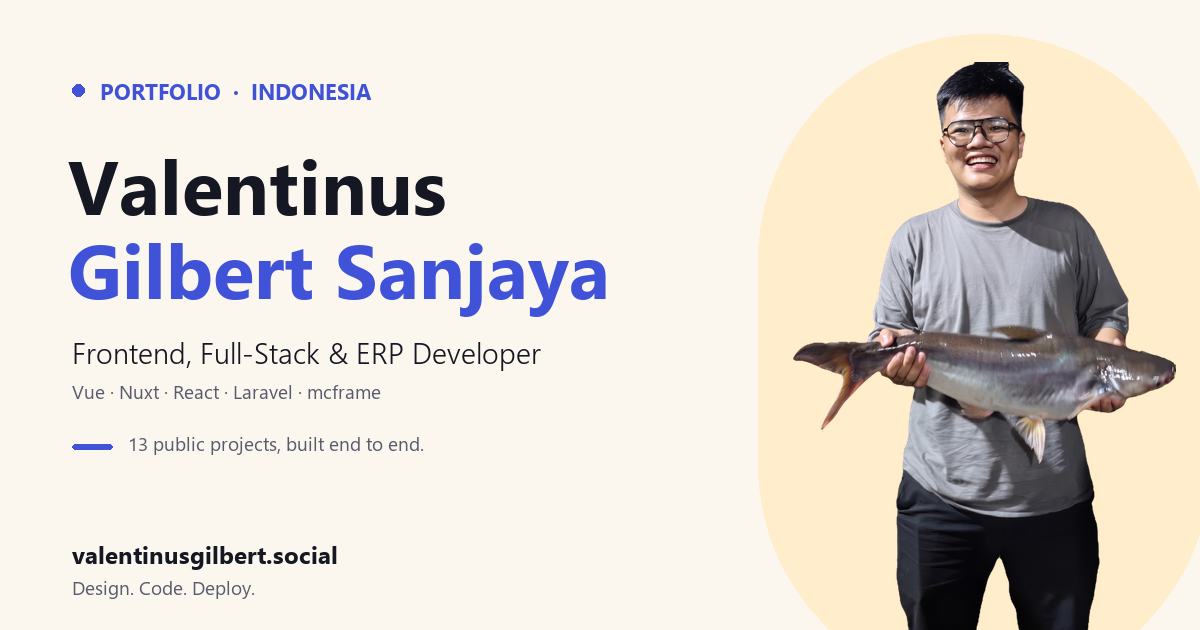
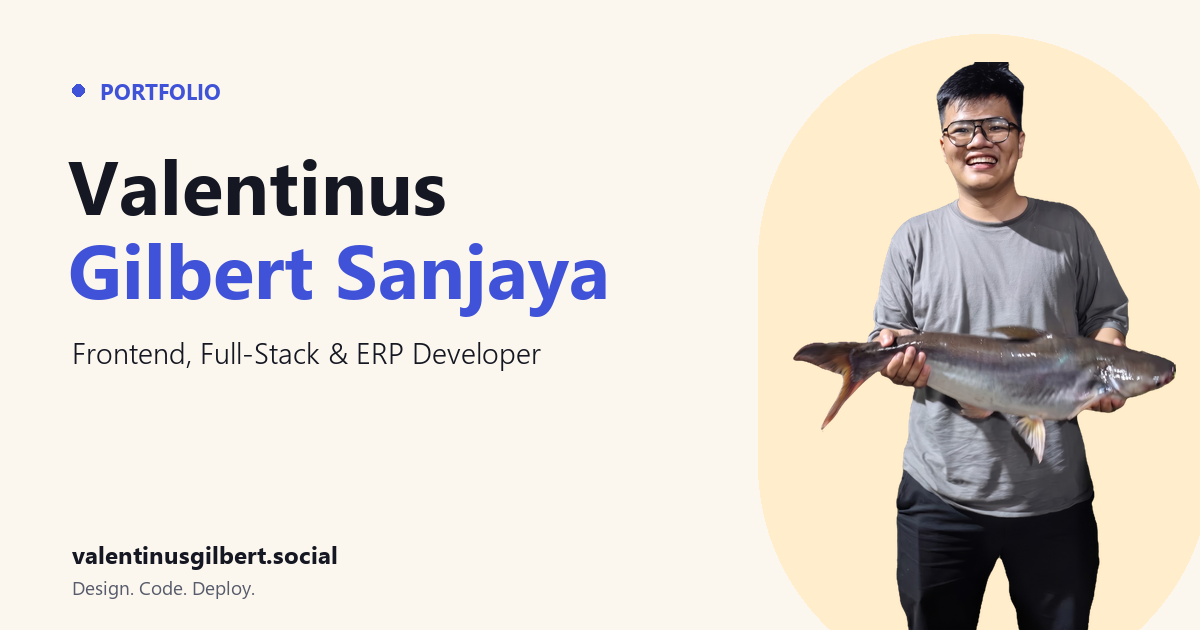
fix: refresh portfolio search and sharing metadata

Changed region(s): [[0.0617, 0.6937, 0.37, 0.7238], [0.0617, 0.6032, 0.3083, 0.6333], [0.185, 0.1206, 0.3083, 0.181]]

diff --git a/portfolio/index.html b/portfolio/index.html
@@ -8,7 +8,7 @@
     <title>Valentinus Gilbert Sanjaya | Frontend, Full-Stack &amp; ERP Developer</title>
     <meta
       name="description"
-      content="Portfolio of Valentinus Gilbert Sanjaya — a frontend, full-stack, and ERP developer in Indonesia. 13 projects built with Vue, Nuxt, React, Laravel, and mcframe."
+      content="Portfolio of Valentinus Gilbert Sanjaya, a frontend, full-stack, and ERP developer."
     />
     <meta
       name="keywords"
@@ -19,14 +19,13 @@
       name="robots"
       content="index, follow, max-snippet:-1, max-image-preview:large, max-video-preview:-1"
     />
-    <!-- Search Console: verify the domain property via DNS, then submit /sitemap.xml. -->
+    <meta name="google-site-verification" content="FSVqls546iebbrrSxdRP9xFkQ4MHsadabUqb-oAWXhY" />
     <link rel="canonical" href="https://valentinusgilbert.social/" />
     <link rel="sitemap" type="application/xml" title="Sitemap" href="/sitemap.xml" />
 
     <!-- Icons -->
-    <link rel="icon" type="image/png" href="/smile.png" />
-    <link rel="apple-touch-icon" href="/smile.png" />
-    <link rel="icon" href="/favicon.ico" sizes="any" />
+    <link rel="icon" href="/favicon.ico" sizes="16x16 32x32 64x64" />
+    <link rel="apple-touch-icon" href="/apple-touch-icon.png" />
 
     <!-- Fonts -->
     <link rel="preconnect" href="https://fonts.googleapis.com" />
@@ -47,7 +46,7 @@
     />
     <meta
       property="og:description"
-      content="Frontend, full-stack, and ERP developer in Indonesia. Explore 13 projects built end to end with Vue, Nuxt, React, Laravel, and mcframe."
+      content="Portfolio of Valentinus Gilbert Sanjaya, a frontend, full-stack, and ERP developer."
     />
     <meta property="og:image" content="https://valentinusgilbert.social/og-image.png" />
     <meta property="og:image:type" content="image/png" />
@@ -67,7 +66,7 @@
     />
     <meta
       name="twitter:description"
-      content="Frontend, full-stack, and ERP developer in Indonesia. Explore 13 projects built end to end with Vue, Nuxt, React, Laravel, and mcframe."
+      content="Portfolio of Valentinus Gilbert Sanjaya, a frontend, full-stack, and ERP developer."
     />
     <meta name="twitter:image" content="https://valentinusgilbert.social/og-image.png" />
     <meta
@@ -85,7 +84,7 @@
             "url": "https://valentinusgilbert.social/",
             "name": "Valentinus Gilbert Sanjaya",
             "alternateName": "Gilbert's Portfolio",
-            "description": "Portfolio of Valentinus Gilbert Sanjaya, a frontend, full-stack, and ERP developer in Indonesia.",
+            "description": "Portfolio of Valentinus Gilbert Sanjaya, a frontend, full-stack, and ERP developer.",
             "inLanguage": "en",
             "publisher": { "@id": "https://valentinusgilbert.social/#person" }
           },
@@ -147,7 +146,7 @@
             "@id": "https://valentinusgilbert.social/#webpage",
             "url": "https://valentinusgilbert.social/",
             "name": "Valentinus Gilbert Sanjaya | Frontend, Full-Stack & ERP Developer",
-            "description": "Portfolio of Valentinus Gilbert Sanjaya — a frontend, full-stack, and ERP developer in Indonesia. 13 projects built with Vue, Nuxt, React, Laravel, and mcframe.",
+            "description": "Portfolio of Valentinus Gilbert Sanjaya, a frontend, full-stack, and ERP developer.",
             "isPartOf": { "@id": "https://valentinusgilbert.social/#website" },
             "about": { "@id": "https://valentinusgilbert.social/#person" },
             "mainEntity": { "@id": "https://valentinusgilbert.social/#person" },
